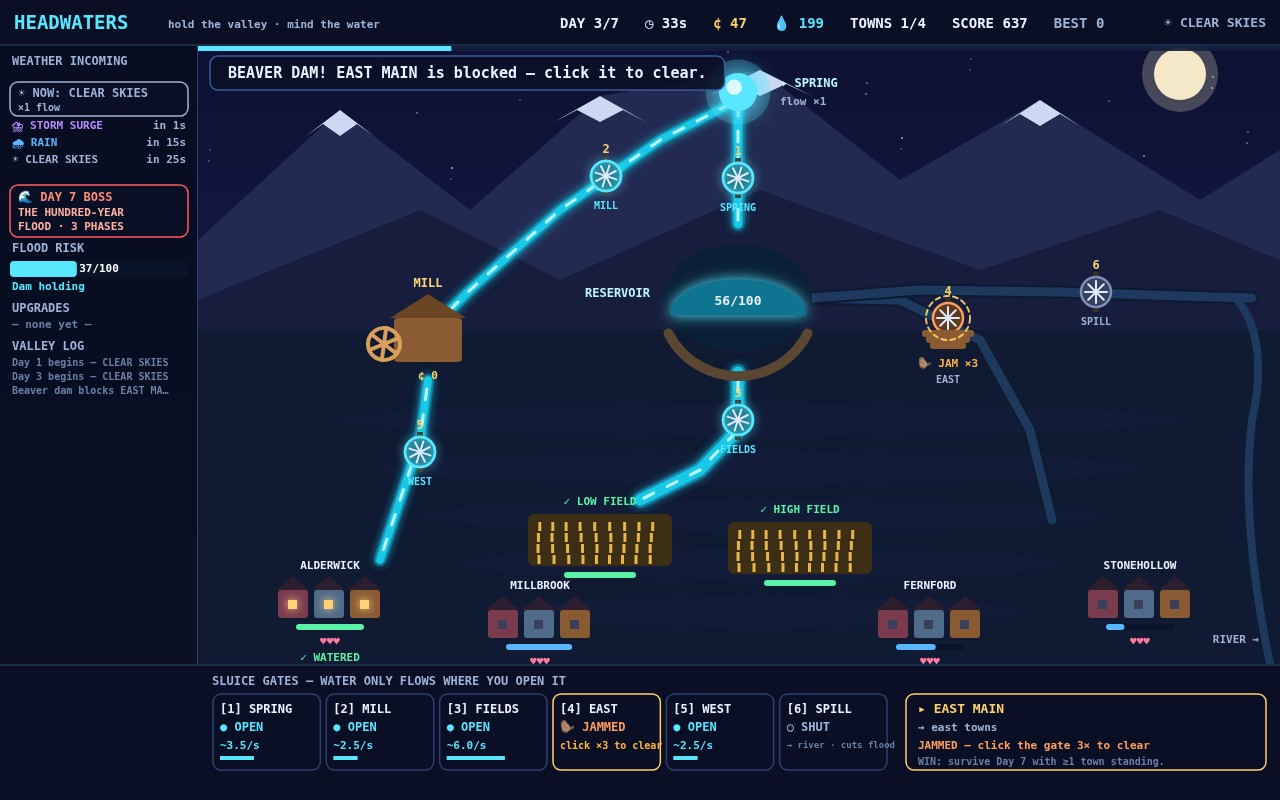
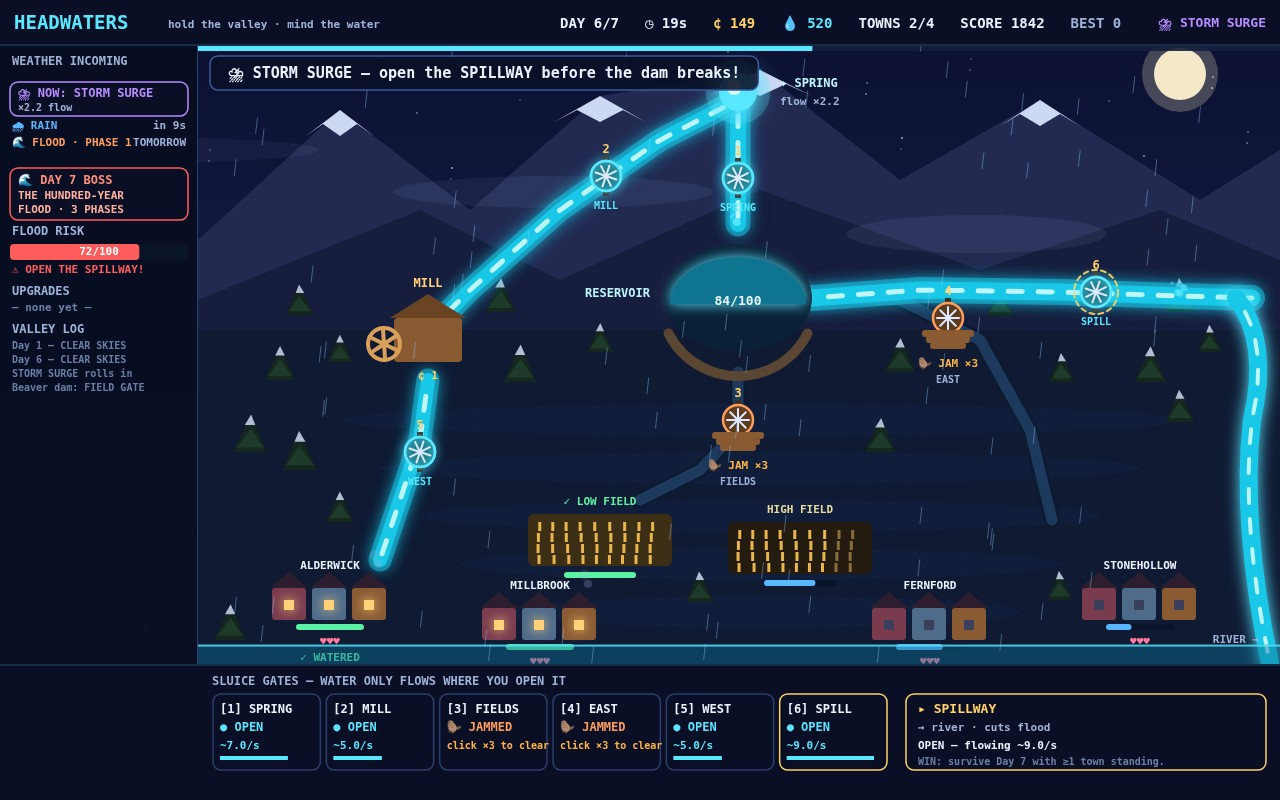
Cover audit patch: thicker glowing channels, visible rain, pine-filled valley, Day 6 storm cover, title/draft readability, TOWNS 3/3 vs 3/4 fix, shorter log lines

diff --git a/game/src/render.js b/game/src/render.js
@@ -7,6 +7,7 @@ import {
   SPRING, RESERVOIR, MILL, WEATHER, DAY_PLANS,
 } from './config.js';
 import { forecastList } from './weather.js';
+import { drawFx } from './particles.js';
 
 function rr(ctx, x, y, w, h, r) {
   ctx.beginPath();
@@ -55,13 +56,13 @@ function channelPath(ctx, pts, width, color, glow) {
 // Animated flow dashes riding a channel.
 function flowDashes(ctx, pts, offset, color, width) {
   const total = pathLength(pts);
-  const step = 26;
+  const step = 30;
   ctx.strokeStyle = color;
   ctx.lineWidth = width;
   ctx.lineCap = 'round';
   for (let d = (offset % step); d < total; d += step) {
     const p = pointAt(pts, d);
-    const q = pointAt(pts, Math.min(total, d + 11));
+    const q = pointAt(pts, Math.min(total, d + 14));
     ctx.beginPath();
     ctx.moveTo(p[0], p[1]);
     ctx.lineTo(q[0], q[1]);
@@ -92,6 +93,9 @@ export function render(ctx, s) {
   ctx.clearRect(0, 0, W, H);
   drawSky(ctx, s);
   drawValley(ctx, s);
+  // Rain, splashes and coin sparkles were simulated but never painted until
+  // the cover audit: the storm has to be visible, not just scheduled.
+  drawFx(ctx, s);
   drawTopBar(ctx, s);
   drawLeftPanel(ctx, s);
   drawGateBar(ctx, s);
@@ -155,17 +159,69 @@ function drawSky(ctx, s) {
   ctx.lineTo(1160, 210); ctx.lineTo(1280, 260); ctx.lineTo(1280, 360); ctx.lineTo(LEFT_W, 360);
   ctx.closePath();
   ctx.fill();
+  // Drifting mist over the ridge: slow, faint, it keeps the sky alive.
+  for (let i = 0; i < 3; i++) {
+    const mx = ((300 + i * 420 + s.anim * (5 + i * 2)) % (W + 360)) - 180;
+    const my = 150 + i * 42;
+    ctx.fillStyle = `rgba(180, 205, 255, ${0.05 + i * 0.015})`;
+    ctx.beginPath();
+    ctx.ellipse(mx, my, 190 - i * 30, 13 + i * 3, 0, 0, Math.PI * 2);
+    ctx.fill();
+  }
   // Valley floor.
   ctx.fillStyle = PALETTE.ground;
   ctx.fillRect(LEFT_W, 330, W - LEFT_W, H - 330 - BOT_H);
   ctx.fillStyle = PALETTE.groundHi;
   for (let i = 0; i < 5; i++) {
-    ctx.globalAlpha = 0.25;
+    ctx.globalAlpha = 0.38;
     ctx.beginPath();
     ctx.ellipse(760, 420 + i * 48, 420 - i * 40, 16, 0, 0, Math.PI * 2);
     ctx.fill();
   }
   ctx.globalAlpha = 1;
+  drawPines(ctx, s);
+}
+
+// Pines on the valley floor and the near ridge, hand-placed so they never
+// cover a channel, a town, a field or a label. They fill the empty middle
+// the cover audit caught: dark green silhouettes with snow tips.
+const PINE_SPOTS = [
+  [280, 380, 1.0], [340, 362, 0.8], [520, 382, 1.1], [600, 352, 0.85],
+  [900, 372, 1.0], [1062, 382, 0.85], [1150, 382, 1.05], [1210, 352, 0.8],
+  [300, 470, 1.15], [340, 522, 0.9], [880, 452, 1.0], [1180, 422, 0.95],
+  [700, 602, 0.9], [250, 452, 1.1], [300, 315, 0.9], [500, 312, 1.0],
+  [1000, 316, 0.9], [1180, 312, 1.0], [230, 640, 1.05], [1060, 600, 0.85],
+];
+
+function drawPines(ctx, s) {
+  for (const [x, y, k] of PINE_SPOTS) {
+    const h = 34 * k;
+    const w = 15 * k;
+    const sway = Math.sin(s.anim * 0.9 + x * 0.05) * 1.2;
+    ctx.fillStyle = '#14261e';
+    ctx.beginPath();
+    ctx.moveTo(x + sway, y - h);
+    ctx.lineTo(x - w, y);
+    ctx.lineTo(x + w, y);
+    ctx.closePath();
+    ctx.fill();
+    ctx.fillStyle = '#1d3a2a';
+    ctx.beginPath();
+    ctx.moveTo(x + sway, y - h * 0.62);
+    ctx.lineTo(x - w * 0.8, y - h * 0.12);
+    ctx.lineTo(x + w * 0.8, y - h * 0.12);
+    ctx.closePath();
+    ctx.fill();
+    ctx.fillStyle = '#cdd8f2';
+    ctx.globalAlpha = 0.85;
+    ctx.beginPath();
+    ctx.moveTo(x + sway, y - h);
+    ctx.lineTo(x - w * 0.32, y - h * 0.72);
+    ctx.lineTo(x + w * 0.32, y - h * 0.72);
+    ctx.closePath();
+    ctx.fill();
+    ctx.globalAlpha = 1;
+  }
 }
 
 function drawValley(ctx, s) {
@@ -210,17 +266,18 @@ function drawChannels(ctx, s) {
   for (const def of GATES) {
     const g = s.gates[def.id];
     const flowing = g.open && g.jam === 0 && g.flow > 0.05;
-    // Dry bed.
-    channelPath(ctx, def.points, 13, '#0d1a30', 0);
-    channelPath(ctx, def.points, 9, PALETTE.channelDry, 0);
-    // Wet glow when water moves.
+    // Dry bed: wider than before so the network reads even with no flow.
+    channelPath(ctx, def.points, 16, '#0d1a30', 0);
+    channelPath(ctx, def.points, 11, PALETTE.channelDry, 0);
+    // Wet glow when water moves: a fat core plus a wide halo, so the network
+    // stays frame-dominant when the shot shrinks to contact-sheet size.
     if (flowing) {
-      const w = 5 + Math.min(6, g.flow);
-      channelPath(ctx, def.points, w + 5, 'rgba(25, 200, 232, 0.35)', 12);
-      channelPath(ctx, def.points, w, PALETTE.channelWet, 10);
-      flowDashes(ctx, def.points, s.anim * 90, '#bdf6ff', 3);
+      const w = 9 + Math.min(8, g.flow);
+      channelPath(ctx, def.points, w + 9, 'rgba(25, 200, 232, 0.5)', 18);
+      channelPath(ctx, def.points, w, PALETTE.channelWet, 16);
+      flowDashes(ctx, def.points, s.anim * 90, '#bdf6ff', 5);
     } else if (g.open && g.jam === 0) {
-      channelPath(ctx, def.points, 6, 'rgba(25, 200, 232, 0.45)', 6);
+      channelPath(ctx, def.points, 8, 'rgba(25, 200, 232, 0.6)', 8);
     }
   }
 }
@@ -329,19 +386,30 @@ function drawTowns(ctx, s) {
       text(ctx, '✕ ABANDONED', t.x, t.y + 26, 11, '#ff5d5d', 'center');
       continue;
     }
-    // Houses with amber windows when watered.
+    // Houses with amber windows when watered: bigger than before, so the
+    // four towns read as the thing you protect even at contact-sheet size.
     const lit = t.watered;
     const cols = ['#7a3b4f', '#4f6b8a', '#8a5a33'];
     for (let i = 0; i < 3; i++) {
-      const hx = t.x - 52 + i * 36;
+      const hx = t.x - 58 + i * 40;
       ctx.fillStyle = cols[i];
-      rr(ctx, hx, t.y - 16, 30, 28, 3); ctx.fill();
+      rr(ctx, hx, t.y - 18, 34, 32, 3); ctx.fill();
       ctx.fillStyle = '#2c1e2e';
-      ctx.beginPath(); ctx.moveTo(hx - 2, t.y - 16); ctx.lineTo(hx + 15, t.y - 30); ctx.lineTo(hx + 32, t.y - 16); ctx.closePath(); ctx.fill();
+      ctx.beginPath(); ctx.moveTo(hx - 2, t.y - 18); ctx.lineTo(hx + 17, t.y - 34); ctx.lineTo(hx + 36, t.y - 18); ctx.closePath(); ctx.fill();
       ctx.fillStyle = lit ? PALETTE.townLight : '#3a3f5c';
-      if (lit) { ctx.shadowColor = PALETTE.townLight; ctx.shadowBlur = 8; }
-      ctx.fillRect(hx + 10, t.y - 6, 9, 9);
+      if (lit) { ctx.shadowColor = PALETTE.townLight; ctx.shadowBlur = 12; }
+      ctx.fillRect(hx + 12, t.y - 6, 10, 10);
       ctx.shadowBlur = 0;
+    }
+    // Chimney smoke over a watered town: a living town, not a static icon.
+    if (lit) {
+      for (let k = 0; k < 2; k++) {
+        const rise = (s.anim * 12 + k * 9) % 18;
+        ctx.fillStyle = `rgba(159, 178, 216, ${0.32 - rise * 0.012})`;
+        ctx.beginPath();
+        ctx.arc(t.x + 46 + Math.sin(s.anim + k * 2) * 2, t.y - 38 - rise, 3.5 + rise * 0.12, 0, Math.PI * 2);
+        ctx.fill();
+      }
     }
     text(ctx, t.name, t.x, t.y - 40, 11, PALETTE.ink, 'center');
     // Tank bar + hearts.
@@ -357,16 +425,27 @@ function drawTowns(ctx, s) {
 
 function drawRiver(ctx, s) {
   const flowing = s.gates[5].open && s.gates[5].flow > 0;
+  // Sample the two quadratics so the stroke and the flow dashes share one path.
+  const pts = [[1236, 298]];
+  for (let i = 1; i <= 8; i++) {
+    const t = i / 8;
+    const u = 1 - t;
+    pts.push([u * u * 1236 + 2 * u * t * 1270 + t * t * 1252, u * u * 298 + 2 * u * t * 340 + t * t * 420]);
+  }
+  for (let i = 1; i <= 8; i++) {
+    const t = i / 8;
+    const u = 1 - t;
+    pts.push([u * u * 1252 + 2 * u * t * 1240 + t * t * 1270, u * u * 420 + 2 * u * t * 520 + t * t * 664]);
+  }
+  polyline(ctx, pts);
   ctx.strokeStyle = flowing ? PALETTE.channelWet : PALETTE.channelDry;
-  ctx.lineWidth = flowing ? 12 : 8;
+  ctx.lineWidth = flowing ? 18 : 10;
   ctx.lineCap = 'round';
-  if (flowing) { ctx.shadowColor = PALETTE.channelGlow; ctx.shadowBlur = 12; }
-  ctx.beginPath();
-  ctx.moveTo(1236, 298);
-  ctx.quadraticCurveTo(1270, 340, 1252, 420);
-  ctx.quadraticCurveTo(1240, 520, 1270, 664);
+  ctx.lineJoin = 'round';
+  if (flowing) { ctx.shadowColor = PALETTE.channelGlow; ctx.shadowBlur = 16; }
   ctx.stroke();
   ctx.shadowBlur = 0;
+  if (flowing) flowDashes(ctx, pts, s.anim * 90, '#bdf6ff', 4);
   text(ctx, 'RIVER →', 1236, 640, 11, PALETTE.inkDim, 'center');
 }
 
@@ -436,7 +515,7 @@ function drawTopBar(ctx, s) {
     [`◷ ${Math.max(0, Math.ceil(s.dayLen - s.dayT))}s`, '#eaf2ff'],
     [`¢ ${s.coins}`, PALETTE.gold],
     [`💧 ${Math.floor(s.waterDelivered)}`, '#59e6ff'],
-    [`TOWNS ${watered}/${alive}`, alive === 0 ? '#ff5d5d' : '#eaf2ff'],
+    [`TOWNS ${watered}/4`, alive === 0 ? '#ff5d5d' : '#eaf2ff'],
     [`SCORE ${Math.floor(s.score)}`, '#eaf2ff'],
     [`BEST ${s.best}`, PALETTE.inkDim],
   ];
@@ -507,7 +586,7 @@ function drawLeftPanel(ctx, s) {
   text(ctx, 'VALLEY LOG', 12, cy, 12, PALETTE.inkDim, 'left');
   cy += 16;
   for (const line of s.log.slice(-6)) {
-    text(ctx, line.length > 26 ? line.slice(0, 25) + '…' : line, 12, cy, 10, PALETTE.inkFaint, 'left');
+    text(ctx, line.length > 28 ? line.slice(0, 27) + '…' : line, 12, cy, 10, PALETTE.inkFaint, 'left');
     cy += 14;
   }
   // Controls footnote.
@@ -567,6 +646,10 @@ function drawTitle(ctx, s) {
   text(ctx, 'HEADWATERS', cx, 170, 64, PALETTE.channelGlow, 'center');
   text(ctx, 'hold the valley · mind the water', cx, 212, 18, '#bdf6ff', 'center');
   text(ctx, 'WATER ONLY FLOWS WHERE YOU OPEN IT', cx, 252, 17, PALETTE.gold, 'center');
+  // A solid panel behind the objective text: the living valley behind it
+  // used to show through the scrim and fight the words (the reservoir's
+  // "12/100" ghosted through the paragraph).
+  panel(ctx, cx - 340, 272, 680, 148, PALETTE.cardEdge);
   const lines = [
     'Route the mountain spring through 6 sluice gates to reservoirs, the mill,',
     'the wheat fields and 4 towns. Water a town and it pays coin; leave it dry',
@@ -579,11 +662,12 @@ function drawTitle(ctx, s) {
   text(ctx, 'WIN: survive Day 7 with at least 1 town standing.', cx, 452, 15, PALETTE.ok, 'center');
   text(ctx, 'LOSE: the dam breaks — or every town runs dry.', cx, 478, 15, '#ff8d7a', 'center');
   text(ctx, '▶ PRESS ENTER TO BEGIN ◀', cx, 540, 20, '#ffffff', 'center');
+  panel(ctx, cx - 280, 566, 560, 28, PALETTE.cardEdge);
   text(ctx, '7 days · weather fronts · beaver dams · upgrade drafts · flood boss', cx, 580, 12, PALETTE.inkDim, 'center');
 }
 
 function drawDraftScreen(ctx, s) {
-  ctx.fillStyle = 'rgba(6, 10, 26, 0.78)';
+  ctx.fillStyle = 'rgba(6, 10, 26, 0.85)';
   ctx.fillRect(LEFT_W, TOP_H, W - LEFT_W, H - TOP_H - BOT_H);
   const cx = 740;
   text(ctx, `DAY ${s.day - 1} SURVIVED — CHOOSE AN UPGRADE`, cx, 250, 24, PALETTE.gold, 'center');

diff --git a/game/src/shots.js b/game/src/shots.js
@@ -46,27 +46,29 @@ export function stageShot(s, scene, seed) {
   }
   if (scene === 'play') {
     startRun(s);
-    // Jump to day 3, storm about to arrive: the cover's pressure moment.
-    s.day = 3;
+    // Jump to day 6, mid-storm: the cover's pressure moment. Rain is falling,
+    // the flood is high enough to show at the valley floor, the spillway is
+    // open, and a beaver dam blocks EAST MAIN — every system visible at once.
+    s.day = 6;
     beginDay(s);
-    s.dayT = 8;
+    s.dayT = 22;
     s.gates[0].open = true; s.gates[1].open = true; s.gates[2].open = true;
-    s.gates[3].open = true; s.gates[4].open = true;
-    s.reservoir.stored = 62;
-    s.flood = 38;
-    s.coins = 47;
-    s.score = 612;
-    s.waterDelivered = 188;
+    s.gates[3].open = false; s.gates[3].jam = 3;
+    s.gates[4].open = true; s.gates[5].open = true;
+    s.reservoir.stored = 88;
+    s.flood = 72;
+    s.coins = 148;
+    s.score = 1840;
+    s.waterDelivered = 520;
     s.towns[0].tank = 16; s.towns[0].watered = true;
-    s.towns[1].tank = 11;
-    s.towns[2].tank = 9;
-    s.towns[3].tank = 4;
+    s.towns[1].tank = 16; s.towns[1].watered = true;
+    s.towns[2].tank = 11;
+    s.towns[3].tank = 6;
     s.farms[0].water = 14; s.farms[0].watered = true;
-    s.farms[1].water = 8;
-    s.selected = 3;
-    s.banner = '⛈ STORM SURGE INCOMING — watch the dam!';
-    s.bannerT = 99;
+    s.farms[1].water = 10;
+    s.selected = 5;
     stepPlain(s, 90);
+    s.banner = '⛈ STORM SURGE — open the SPILLWAY before the dam breaks!';
     s.bannerT = 99;
     return;
   }

diff --git a/game/src/world.js b/game/src/world.js
@@ -93,7 +93,7 @@ export function beginDay(s) {
   for (const t of s.towns) { t.tank = 0; t.watered = false; }
   for (const f of s.farms) { f.water = 0; f.watered = false; }
   s.flood = Math.max(0, s.flood - 12);
-  s.log.push(`Day ${s.day} begins — ${WEATHER[s.weather].label}`);
+  s.log.push(`Day ${s.day} — ${WEATHER[s.weather].label}`);
 }
 
 export function addLog(s, msg) {
@@ -121,7 +121,7 @@ export function clickJam(s, id) {
   if (g.jam <= 0) {
     g.jam = 0;
     s.stats.jamsCleared++;
-    addLog(s, `Cleared the jam on ${GATES[id].name}`);
+    addLog(s, `Jam cleared: ${GATES[id].name}`);
     sfx('clear');
     spawnClearBurst(s, id);
   } else {
@@ -142,7 +142,7 @@ export function applyJam(s, gateId) {
   g.jam = JAM_HP;
   g.open = false;
   setBanner(s, `BEAVER DAM! ${GATES[gateId].name} is blocked — click it to clear.`, 4);
-  addLog(s, `Beaver dam blocks ${GATES[gateId].name}`);
+  addLog(s, `Beaver dam: ${GATES[gateId].name}`);
   s.jamFlash = 1;
   sfx('jam');
 }

diff --git a/game/src/towns.js b/game/src/towns.js
@@ -17,9 +17,9 @@ export function settleDay(s) {
       t.health -= 1;
       if (t.health <= 0) {
         t.lost = true;
-        lines.push(`${t.name} ran dry and was abandoned.`);
+        lines.push(`${t.name} ran dry.`);
       } else {
-        lines.push(`${t.name} went thirsty (${t.health} ♥ left).`);
+        lines.push(`${t.name} thirsty (${t.health}♥).`);
       }
     }
   }
@@ -34,6 +34,7 @@ export function settleDay(s) {
 
   const watered = s.towns.filter((t) => t.watered).length;
   const fields = s.farms.filter((f) => f.watered).length;
-  lines.unshift(`Day ${s.day} ends: ${watered}/4 towns watered, ${fields}/2 fields green, +${coins} coin.`);
+  lines.unshift(`+${coins} coin · ${fields}/2 fields green`);
+  lines.unshift(`Day ${s.day}: ${watered}/4 towns watered`);
   return { coins, lines };
 }
